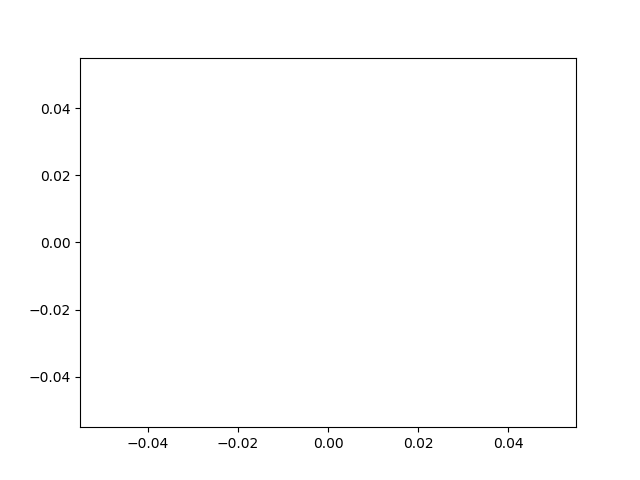
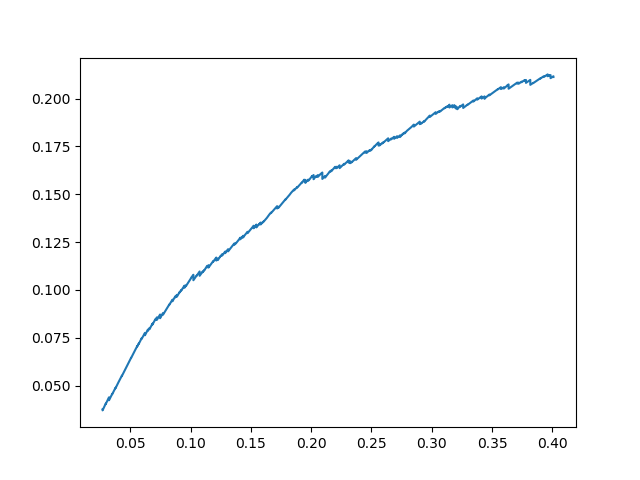
update

diff --git a/run_predictions.py b/run_predictions.py
@@ -6,7 +6,7 @@ from multiprocessing import Pool
 import multiprocessing as mp
 import matplotlib.pyplot as plt
 
-def compute_convolution(I, T, stride=1, padding=0):
+def compute_convolution(I, T, stride=1):
     '''
     This function takes an image <I> and a template <T> (both numpy arrays) 
     and returns a heatmap where each grid represents the output produced by 
@@ -14,21 +14,22 @@ def compute_convolution(I, T, stride=1, padding=0):
     window_size, padding) to create additional functionality. 
     '''
 
-    # pad I
-    zs = I.shape
-    zs = (zs[0] + 2 * padding, zs[1] + 2 * padding)
-    padded = np.zeros(zs)
-    padded[padding : I.shape[0] + padding, padding : I.shape[1] + padding] = I
-
-    fc1 = T[:, :].flatten()
+    I = I.astype(np.uint32)
+    T = T.astype(np.uint32)
+    
+    fc1 = T[:, :, 0].flatten()
+    fc2 = T[:, :, 1].flatten()
+    fc3 = T[:, :, 2].flatten()
 
     heatmap = []
-    for i in range(0, len(padded) - len(T), stride):
+    for i in range(0, len(I) - len(T), stride):
         tmp = []
-        for j in range(0, len(padded[i]) - len(T[0]), stride):
-            cur = padded[i:i + len(T), j:j + len(T[0])]
-            c1 = np.dot(cur[:, :].flatten(), fc1)
-            tmp.append(c1)
+        for j in range(0, len(I[i]) - len(T[0]), stride):
+            cur = I[i:i + len(T), j:j + len(T[0]), :]
+            c1 = np.dot(cur[:, :, 0].flatten(), fc1)
+            c2 = np.dot(cur[:, :, 1].flatten(), fc2)
+            c3 = np.dot(cur[:, :, 2].flatten(), fc3)
+            tmp.append([c1, c2, c3])
         heatmap.append(tmp)
 
     return np.array(heatmap)
@@ -78,7 +79,7 @@ def predict_boxes(heatmap):
     points = []
     for i in range(len(heatmap)):
         for j in range(len(heatmap[i])):
-            if heatmap[i][j] > 0.9:
+            if heatmap[i][j][1] < 0.4*heatmap[i][j][0] and heatmap[i][j][2] < 0.4*heatmap[i][j][0]:
                 points.append((i, j))
         
     points = np.array(points)
@@ -87,8 +88,8 @@ def predict_boxes(heatmap):
         return []
 
     bbox = []
-    ctrs, conf = kmeans(points, 15)
-    bsize = (10, 10)
+    ctrs, conf = kmeans(points, 6)
+    bsize = (120, 120)
     for c in range(len(ctrs)):
         center = ctrs[c]
         bbox.append([center[1] - bsize[0]/2, center[0] - bsize[1]/2,
@@ -100,30 +101,7 @@ def normalize(I):
     return (I - np.min(I))/(np.max(I) - np.min(I))
 
 def detect_red_light_mf(I, fname, ftr):
-    '''
-    This function takes a numpy array <I> and returns a list <output>.
-    The length of <output> is the number of bounding boxes predicted for <I>. 
-    Each entry of <output> is a list <[row_TL,col_TL,row_BR,col_BR,score]>. 
-    The first four entries are four integers specifying a bounding box 
-    (the row and column index of the top left corner and the row and column 
-    index of the bottom right corner).
-    <score> is a confidence score ranging from 0 to 1. 
-
-    Note that PIL loads images in RGB order, so:
-    I[:,:,0] is the red channel
-    I[:,:,1] is the green channel
-    I[:,:,2] is the blue channel
-    '''
-
-    I = normalize(I[:, :, 0])
-    
-    heatmap = normalize(compute_convolution(I, ftr[:, :, 0]))
-    iters = 1
-    for it in range(iters):
-        heatmap = normalize(compute_convolution(heatmap, ftr[:, :, 0]))
-    hmg = heatmap * 255
-    tmp = Image.fromarray(hmg.astype(np.uint8), 'L')
-    tmp.save(fname)
+    heatmap = compute_convolution(I, ftr)
     output = predict_boxes(heatmap)
 
     for i in range(len(output)):
@@ -132,11 +110,7 @@ def detect_red_light_mf(I, fname, ftr):
 
     return output
 
-# Note that you are not allowed to use test data for training.
-# set the path to the downloaded data:
 data_path = '../data/RedLights2011_Medium'
-
-# load splits: 
 split_path = '../data/hw02_splits'
 file_names_train = np.load(os.path.join(split_path,'file_names_train.npy'))
 file_names_test = np.load(os.path.join(split_path,'file_names_test.npy'))
@@ -153,8 +127,9 @@ Make predictions on the training set.
 '''
 preds_train = {}
 
-ftr = Image.open('f2.png').resize((10, 10))
-ftr = np.asarray(ftr)
+ftr = Image.open('f1.png')
+ftr = ftr.resize((4, 11))
+ftr = np.array(ftr)
 
 def fnametmt(fname):
     global ftr

diff --git a/eval_detector.py b/eval_detector.py
@@ -25,7 +25,7 @@ def compute_iou(box_1, box_2):
     return 0
 
 
-def compute_counts(preds, gts, iou_thr=0.5, conf_thr=0.5):
+def compute_counts(preds, gts, iou_thr, conf_thr):
     '''
     This function takes a pair of dictionaries (with our JSON format; see ex.) 
     corresponding to predicted and ground truth bounding boxes for a collection
@@ -45,25 +45,26 @@ def compute_counts(preds, gts, iou_thr=0.5, conf_thr=0.5):
         gt = gts[fname]
 
         mbox = [False for _ in range(len(boxes))]
-            
+        mgt = [False for _ in range(len(gt))]
+        
         for i in range(len(gt)):
-            match = False
-
             for j in range(len(boxes)):
                 if boxes[j][4] < conf_thr:
+                    mbox[j] = True
                     continue
                 iou = compute_iou(gt[i], boxes[j][:4])
                 if iou > iou_thr:
-                    match = True
+                    TP += 1
                     mbox[j] = True
-            if match:
-                TP += 1
-            else:
-                FN += 1
+                    mgt[i] = True
         for i in mbox:
-            if not i:
+            if i == False:
                 FP += 1
+        for i in mgt:
+            if i == False:
+                FN += 1
 
+    print(TP, FP, FN)
     return TP, FP, FN
 
 # set a path for predictions and annotations:
@@ -109,19 +110,24 @@ for fname in preds_train:
         total.append(i[4])
 
 confidence_thrs = np.array(sorted(list(set(total))))#np.sort(np.array([preds_train[fname][4] for fname in preds_train],dtype=float)) # using (ascending) list of confidence scores as thresholds
+plt.plot(confidence_thrs)
 tp_train = np.zeros(len(confidence_thrs))
 fp_train = np.zeros(len(confidence_thrs))
 fn_train = np.zeros(len(confidence_thrs))
 for i, conf_thr in enumerate(confidence_thrs):
-    tp_train[i], fp_train[i], fn_train[i] = compute_counts(preds_train, gts_train, iou_thr=0.25, conf_thr=conf_thr)
+    print(conf_thr)
+    tp_train[i], fp_train[i], fn_train[i] = compute_counts(preds_train, gts_train, iou_thr=0.0, conf_thr=conf_thr)
     
 # Plot training set PR curves
 P = []
 R = []
+
 for i in range(len(confidence_thrs)):
     P.append(tp_train[i]/(tp_train[i] + fp_train[i]))
     R.append(tp_train[i]/(tp_train[i] + fn_train[i]))
 
+plt.clf()
+plt.cla()
 plt.plot(R, P)
 plt.savefig('test.png')
 
